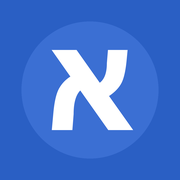
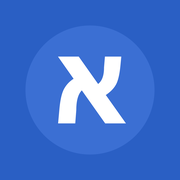
Iconos propios, pantalla de carga animada y sin zoom
- Todos los emojis reemplazados por iconos SVG propios (54)
- Pantalla de carga: la álef se escribe de derecha a izquierda
- Imágenes de arranque de iOS para evitar la pantalla negra
- Sin zoom con pellizco ni doble toque
- Icono de la app con la álef de Arial Hebrew

Changed region(s): [[0.2778, 0.2778, 0.75, 0.7222]]

diff --git a/sw.js b/sw.js
@@ -1,5 +1,5 @@
 // Guarda la app en el teléfono para que funcione sin internet.
-const V='hebreo-v1';
+const V='hebreo-v2';
 const SHELL=['./','./manifest.webmanifest','./icon-180.png','./icon-192.png','./icon-512.png'];
 self.addEventListener('install',e=>e.waitUntil(caches.open(V).then(c=>c.addAll(SHELL)).then(()=>self.skipWaiting())));
 self.addEventListener('activate',e=>e.waitUntil(caches.keys().then(ks=>Promise.all(ks.filter(k=>k!==V).map(k=>caches.delete(k)))).then(()=>self.clients.claim())));
